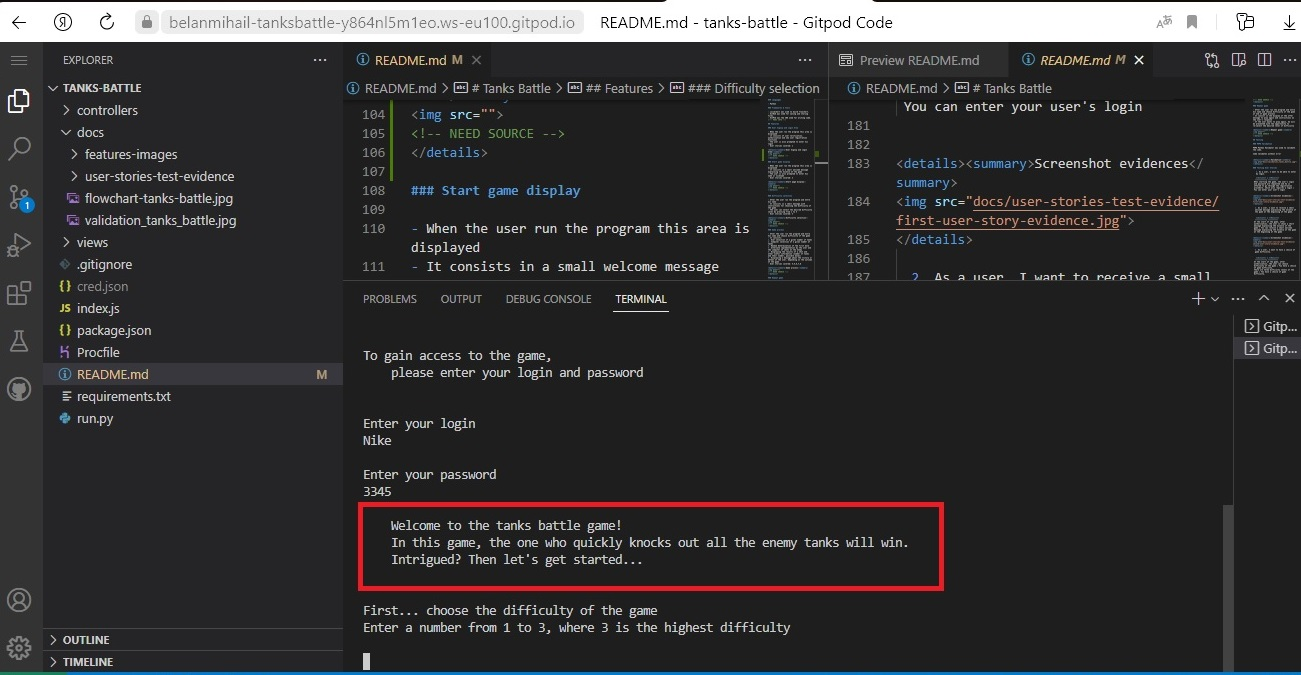
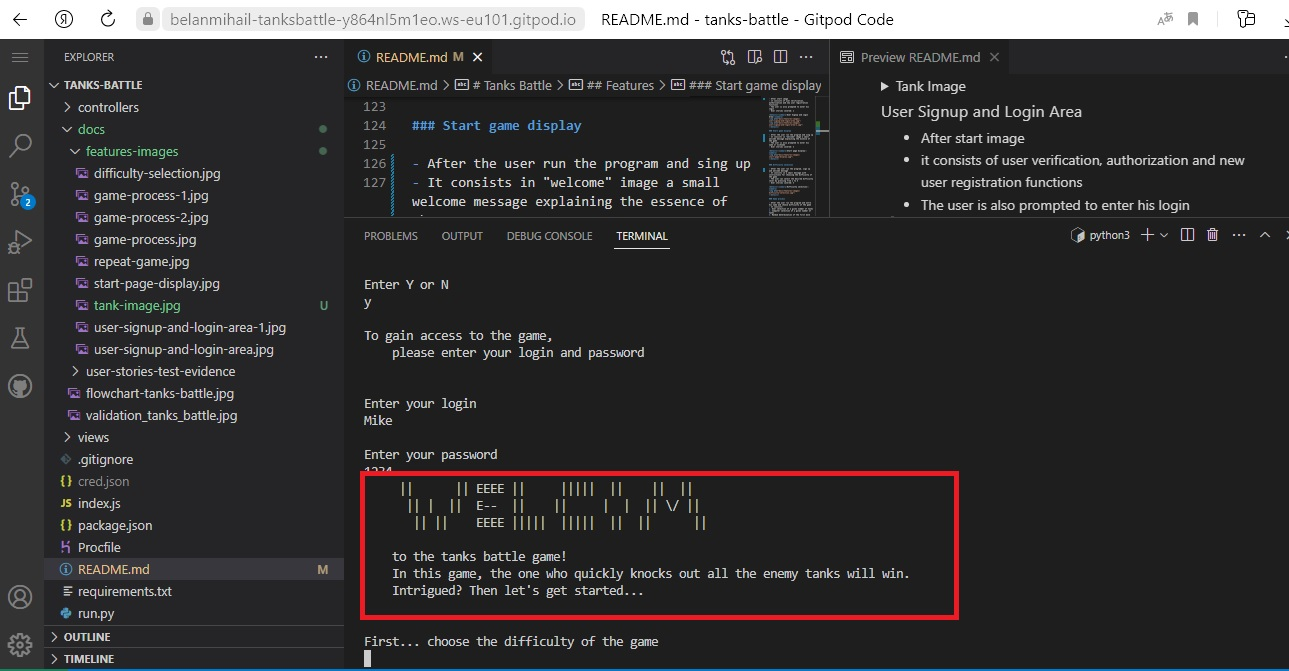
Update features due to code changes

diff --git a/README.md b/README.md
@@ -102,10 +102,16 @@ A simple logic game similar to a sea battle. In this game, the player will have 
 ## Features
 
 ### Tank Image
+- When the user run the program this area is displayed
+- it consists of the image of the tank which is the symbol of the game
+
+<details><summary>Tank Image</summary>
+<img src="docs/features-images/tank-image.jpg">
+</details>
 
 ### User Signup and Login Area
 
-- When the user run the program this area is displayed
+- After start image
 - it consists of user verification, authorization and new user registration functions
 - The user is also prompted to enter his login
 - User stories covered: 1
@@ -117,8 +123,8 @@ A simple logic game similar to a sea battle. In this game, the player will have 
 
 ### Start game display
 
-- When the user run the program this area is displayed
-- It consists in a small welcome message explaining the essence of the game
+- After the user run the program and sing up
+- It consists in "welcome" image a small welcome message explaining the essence of the game
 - The user is also prompted to enter his name or nickname
 - User stories covered: 2
 
@@ -129,7 +135,7 @@ A simple logic game similar to a sea battle. In this game, the player will have 
 
 ### Difficulty selection
 
-- After the user run the program and entre his name
+- After the user run the program, sign up and welcome message
 - It consists in a small message with instructions for choosing the difficulty of the game
 - The user can select the desired difficulty level by pressing from 1 to 3
 - User stories covered: 3
